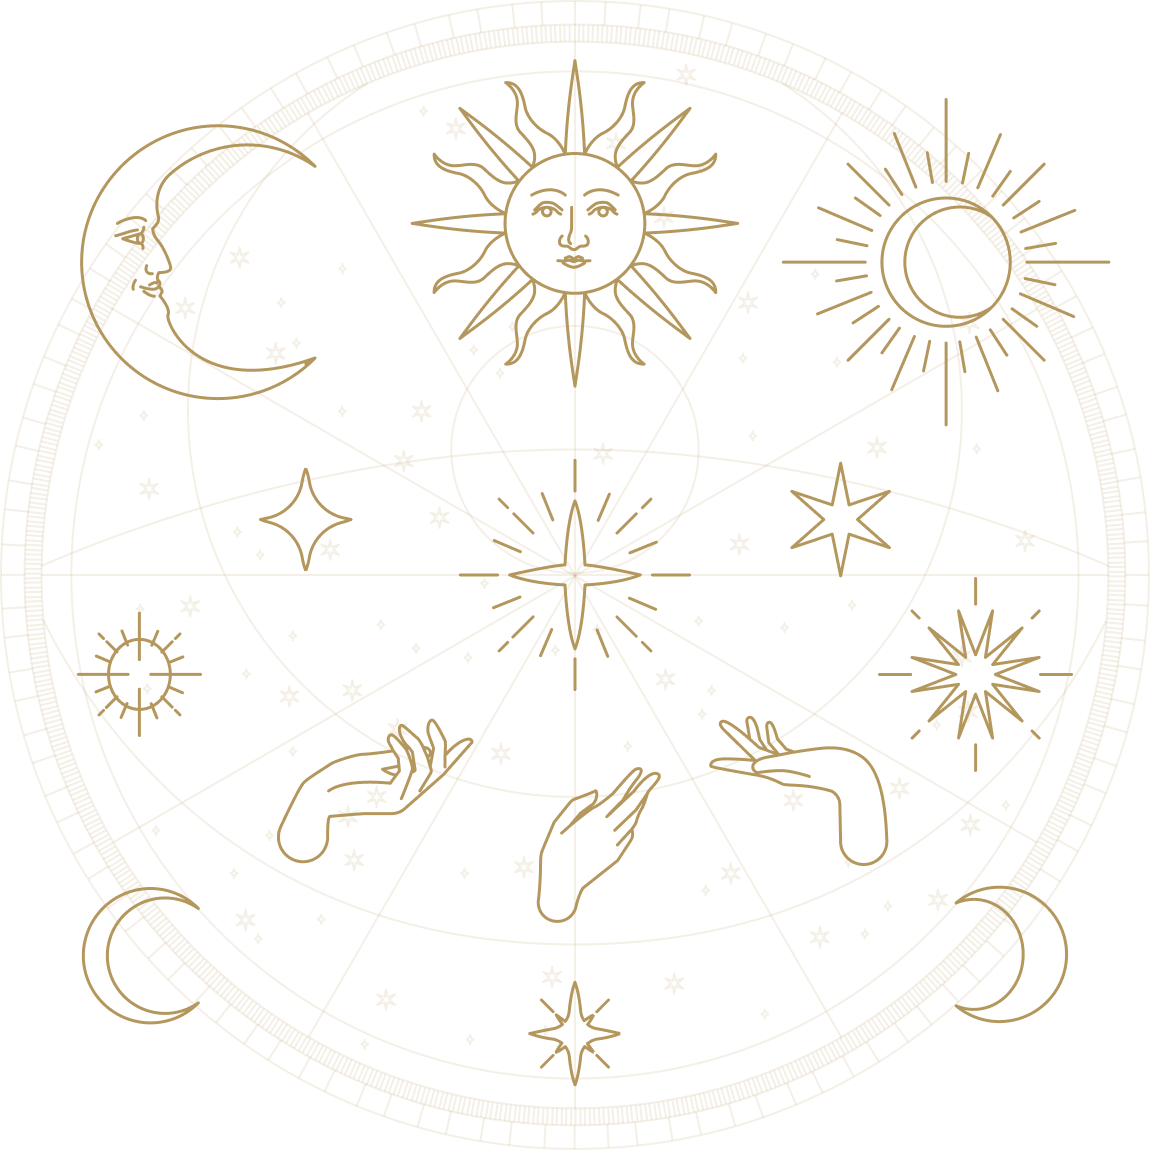
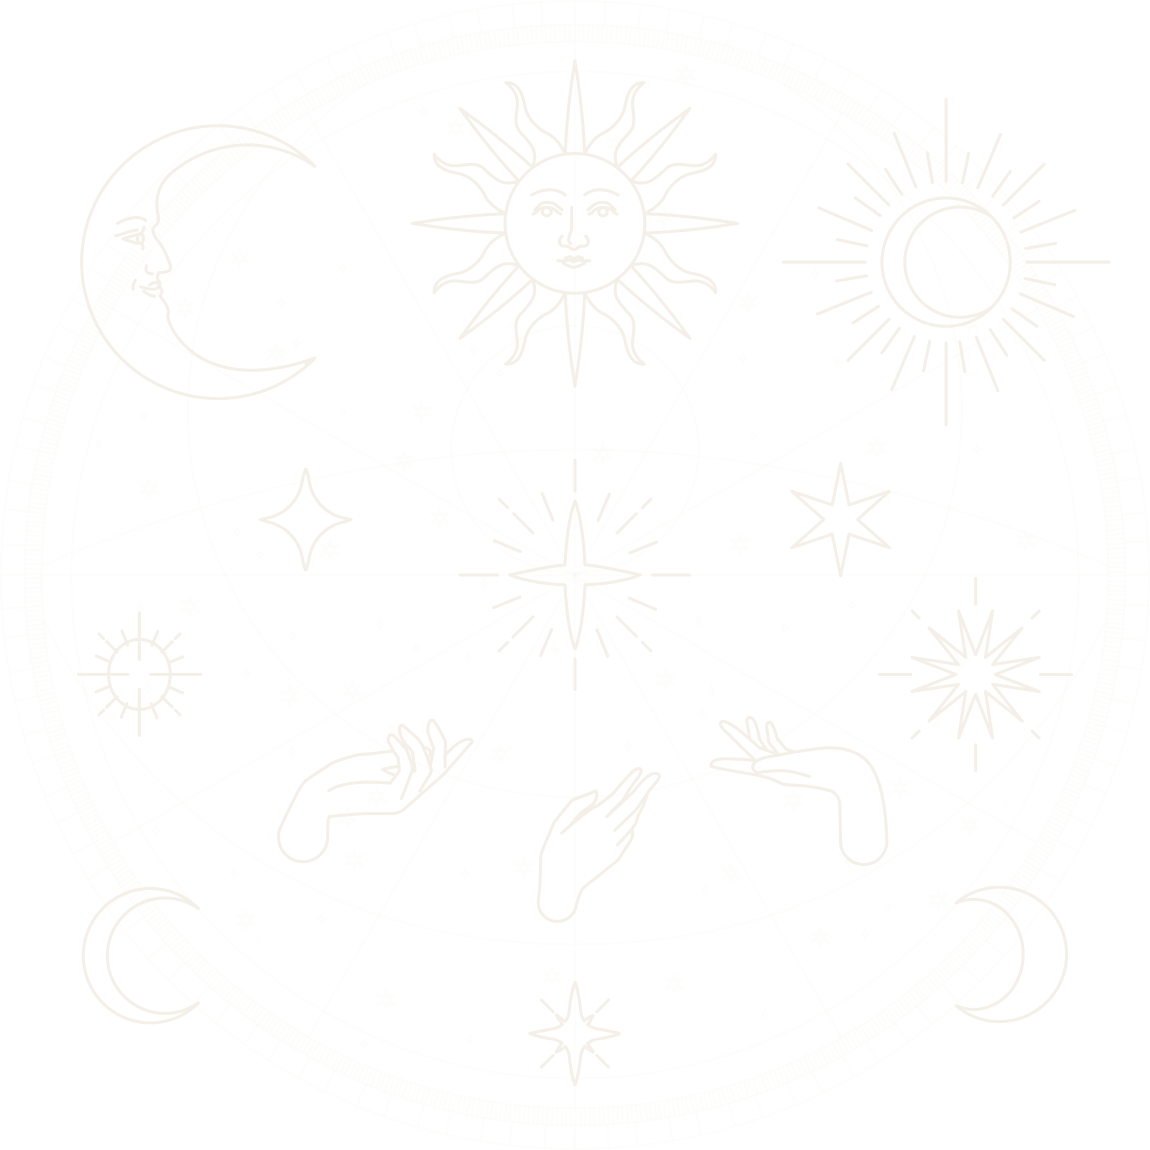
update1

diff --git a/index.html b/index.html
@@ -111,7 +111,154 @@
     </div>
 
 
-    <h1>Lorem ipsum, dolor sit amet consectetur adipisicing elit. Eum, cupiditate? Minima animi, blanditiis, alias, dolorum eligendi inventore tenetur quisquam aliquid expedita debitis sunt est dicta aperiam id. Quisquam consectetur, id voluptate pariatur quibusdam, facilis ad itaque perspiciatis voluptates rerum fugiat ab quis dolorum porro autem aliquam enim dolore consequuntur. Cumque corrupti hic odit, officiis distinctio cupiditate natus doloribus voluptatem, odio corporis molestiae dignissimos? Nobis, neque repellat quos iste obcaecati esse magnam assumenda odit vitae harum doloremque unde officia libero nemo velit quaerat? Porro unde nesciunt, repudiandae, non quasi alias dignissimos, praesentium totam hic fuga ratione. Error, minus exercitationem voluptatum et deserunt nesciunt corrupti, veritatis ea pariatur, alias rerum placeat nihil suscipit culpa qui ut. Ducimus nobis dolorem sunt, laborum, quae culpa eos incidunt animi exercitationem aperiam ipsam placeat adipisci reiciendis quisquam accusamus porro sint repudiandae natus obcaecati soluta sit corrupti totam? Sunt omnis, nostrum dolore adipisci quam error assumenda enim voluptatum provident similique aliquid molestiae quaerat dicta in laboriosam eos quae odit ab. Sed quasi enim modi, nulla eius ipsam voluptatem magni ipsa, molestias atque odit molestiae praesentium! Magnam non dignissimos ut fugiat? Omnis, hic illo. In aspernatur eius molestias earum, sequi autem nesciunt blanditiis libero, cumque sit alias quam.</h1>
+    <!-- Main Section -->
+     <section>
+        <div id="home_first_section">
+            <div class="container">
+                <div class="row align-items-center">
+                    <div class="col-lg-7 col-md-6">
+                        <h1>Ajmeri Gems House for Genuine Gemstone</h1>
+                        <p>Ajmeri Gems House (আজমেরি জেমস হাউস) is a trusted name for sourcing natural, rare, and spiritually aligned gemstones across Bangladesh. 
+                        This platform is designed for those who are looking for genuine astrological gemstones carefully matched with your birth chart (জন্মছক) zodiac sign (রাশিচক্র) and inner energy.</p>
+                        <h4>“পাথর শুধু অলংকার নয়, এটা আপনার ভাগ্যকে বদলে দিতে পারে।”</h4>
+                        <p>With over 30 years of experience in astrological solutions, Ajmeri Gems House stands out as one of the best in Bangladesh to offer a 100% authenticity guarantee</p>
+                        <h4>“আমরা মিথ্যা আশ্বাস নয়, প্রমাণসহ পাথর দিই।”</h4>
+                        
+                        <div class="mt-5">
+                            <a href="./appointment.html" class="btn btn-lg">Get an Appointment</a>
+                        </div>
+                    </div>
+                    <div class="col-lg-5 col-md-6">
+                        <div id="hero_img">
+                            <img src="./public/img/weblogo.png.webp" alt="">
+                        </div>
+                    </div>
+                </div>
+            </div>
+        </div>
+     </section>
+     <section>
+        <div id="home_second_section">
+            <div class="container">
+                <div class="text-center">
+                    <h2>Greetings To Ajmeri Gems House</h2>
+                </div>
+                <div class="row align-items-center">
+                    <div class="col-lg-6 col-md-6">
+                        <div id="home_second_img">
+                            <img src="./public/img/hero.png" alt="">
+                        </div>
+                    </div>
+                    <div class="col-lg-6 col-md-6">
+                        <h3>Astrologer Liton Dewan Chishti</h3>
+                        <p>Hand lines say a lot about a person. Everything from habits to personality traits can be understood by looking at this line. Basically, there are four lines in the hand which are mainly the lines of lifeline, heart path, title, and fate line. Many events are hidden within these lines. Some of us have broken lines, some have deep and straight lines. There are 12 signs of the horoscope, each taking up 30 degrees in one’s birth chart to form a full 360-degree circle. In astrology, each planet is determined by a specific gemstone. A person’s horoscope and hand lines are examined carefully to offer him/her a stone to wear. An astrologer does this examination with careful observation. Discover the ultimate gemstone shopping experience at the best gemstone shopping store in Bangladesh.</p>
+                        
+                        <div class="mt-5">
+                            <a href="./about-us.html" class="btn btn-lg">Read More</a>
+                        </div>
+                    </div>
+                </div>
+            </div>
+        </div>
+     </section>
+     <section>
+        <div id="home_offer">
+            <div class="container">
+                <div id="home_offer_image">
+                    <img src="./public/img/Best-Gemstone-Shopping-Store-In-Bangladesh.jpg.webp" alt="">
+                </div>
+
+                <div class="text-center">
+                    <h3><span>30 years</span> Experience Know Your Horoscope Today</h3>
+                    <p>Liton Dewan Chishti is one of the most famous astrologers in Bangladesh who has 30 years of experience in offering the best astrological solution. He has been guiding people in various directions about a life journey, heart path, title, and fate line by practicing the knowledge of astrology. In a very short period, he has gained a good reputation inside and outside the country with his skill and knowledge. He has received prestigious awards and certificates of appreciation from various newspapers and media. The guidance of astrologer Liton Dewan Chishti makes Ajmeri Gems House number one. There is a lifetime 100% money-back guarantee if someone can prove that the best gemstone shopping store in Bangladesh in this store are fake. It supplies the stones with confidence due to their authenticity.</p>
+                </div>
+            </div>  
+        </div>
+     </section>
+     <section>
+        <div id="home_third_section">
+            <div class="container">
+                <div class="row align-items-center">
+                    <div class="col-lg-6">
+                        <h3>Ajmeri Gems House</h3>
+                        <img src="./public/img/about3.webp" alt="">
+                    </div>
+                    <div class="col-lg-6">
+                        <p>The largest collection of best gemstone shopping store in Bangladesh is found in Ajmeri Gems House. While buying the original gemstone from here you don’t have to think about whether the stone is real or fake. There is a guarantee of providing 100% authentic products in this store.We want to be a brand loved by its respected clients. The leader of this organization is the renowned astrologer Liton Dewan Chisti.The journey of this store began in 1992. Since the time it started, it has been offering exceptional gemstones with excellent customer service. It started its service directly to the customer. We work hard to smoothen the purchasing process, empower the customers, encourage them, and lastly help them to buy their products while making sure that the customers remember their service forever. </p>
+
+                        <div class="mt-5">
+                            <a href="./shop.html" class="btn btn-lg">Our Products</a>
+                        </div>
+                    </div>
+                </div>
+            </div>
+        </div>
+     </section>
+     <section>
+        <div id="home_products">
+
+        </div>
+     </section>
+     <section>
+        <div id="home_forth_section">
+            <div class="container">
+                <div class="text-center">
+                    <h3>Select Your Favorite Gemstone</h3>
+                    <img src="./public/img/Ajmeri-Gems-House-1024x133.png.webp" alt="">
+                </div>
+                <div class="row mt-5">
+                    <div class="col-lg-3 col-md-6">
+                        <ul>
+                            <li><a href=""><i class="fa-solid fa-gem"></i> Amethyst Stone (পদ্মনীলা পাথর)</a></li>
+                            <li><a href=""><i class="fa-solid fa-gem"></i> Ruby Stone ( রুবি পাথর)</a></li>
+                            <li><a href=""><i class="fa-solid fa-gem"></i> Gems Stone Shiloni Moon (শিলোনী মুন ষ্টোন)</a></li>
+                            <li><a href=""><i class="fa-solid fa-gem"></i> Red Coral Stone (রক্তপ্রবাল পাথর)</a></li>
+                            <li><a href=""><i class="fa-solid fa-gem"></i> Blue Nila Stone (ব্যাংকক ইন্দ্রনীলা পাথর)</a></li>
+                            <li><a href=""><i class="fa-solid fa-gem"></i> Sulemani Akik Stone (সোলেমানি আকিকপাথর)</a></li>
+                        </ul>
+                    </div>
+                    <div class="col-lg-3 col-md-6">
+                        <ul>
+                            <li><a href=""><i class="fa-solid fa-gem"></i> Pearl Stone (গ্যারা মুক্তা পাথর)</a></li>
+                            <li><a href=""><i class="fa-solid fa-gem"></i> Akik Stone (আকিক ইয়ামিনী লাল পাথর)</a></li>
+                            <li><a href=""><i class="fa-solid fa-gem"></i> Akik Stone ( আকিক কালো পাথর)</a></li>
+                            <li><a href=""><i class="fa-solid fa-gem"></i> Zircon Stone (জারকন পাথর)</a></li>
+                            <li><a href=""><i class="fa-solid fa-gem"></i> Cats Eye Stone (শিলোনাী ক্যাটসআই পাথর)</a></li>
+                            <li><a href=""><i class="fa-solid fa-gem"></i> Cats Eye Stone (উড়িষ্যা ক্যাটসআই পাথর)</a></li>
+                        </ul>
+                    </div>
+                    <div class="col-lg-3 col-md-6">
+                        <ul>
+                            <li><a href=""><i class="fa-solid fa-gem"></i> Gemstone Citrine (সিট্রিন রত্নপাথর)</a></li>
+                            <li><a href=""><i class="fa-solid fa-gem"></i> Peridot Gemstone (পেরিডট রত্নপাথর)</a></li>
+                            <li><a href=""><i class="fa-solid fa-gem"></i> Alexandrite Gemstone (আলেকজান্দ্রিত)</a></li>
+                            <li><a href=""><i class="fa-solid fa-gem"></i> Gemstone Aquamarine (অ্যাকোয়ামারিন)</a></li>
+                            <li><a href=""><i class="fa-solid fa-gem"></i> Star Ruby Stone (আনকাট রুবি স্টোন)</a></li>
+                            <li><a href=""><i class="fa-solid fa-gem"></i> Tiger Eye Stone (টাইগার পাথর)</a></li>
+                        </ul>
+                    </div>
+                    <div class="col-lg-3 col-md-6">
+                        <ul>
+                            <li><a href=""><i class="fa-solid fa-gem"></i> Blue Sapphire (শ্রীলঙ্কান ইন্দ্রনীলা পাথর)</a></li>
+                            <li><a href=""><i class="fa-solid fa-gem"></i> Emerald Stone (ব্রাজিল পান্না পাথর)</a></li>
+                            <li><a href=""><i class="fa-solid fa-gem"></i> Turquoise Gemstone (ফিরোজা পাথর)</a></li>
+                            <li><a href=""><i class="fa-solid fa-gem"></i> Golden Topaz (টোপাজ রত্নপাথর)</a></li>
+                            <li><a href=""><i class="fa-solid fa-gem"></i> Opal Stone (ওপাল পাথর)</a></li>
+                            <li><a href=""><i class="fa-solid fa-gem"></i> Yellow Sapphire Topaz (পোখরাজ পাথর)</a></li>
+                            <li><a href=""><i class="fa-solid fa-gem"></i> Garnet Gemstone (গোমেদ পাথর)</a></li>
+                        </ul>
+                    </div>
+                </div>
+            </div>
+        </div>
+     </section>
+     <section>
+        <div id="home_fifth_section"></div>
+     </section>
+     <section>
+        <div id="home_sixth_section"></div>
+     </section>
+    <!-- Main Section -->
 
 
 

diff --git a/public/css/style.css b/public/css/style.css
@@ -21,10 +21,12 @@ ul {
 }
 a {
     text-decoration: none;
+    font-size: 18px;
 }
 
 p {
 	font-weight: 400;
+    font-size: 18px;
 }
 
 .form-control:focus {
@@ -309,6 +311,131 @@ p {
 #breadcrumb p a {
     color: var(--first-color);
 }
+
+
+/* Home Page */
+#home_first_section {
+    padding: 50px 0;
+    background: linear-gradient(rgba(255, 255, 242, 0.5), rgba(255, 255, 242, 0.5)),url("../img/bg-sd-tarot-pd.png");
+    background-position: center;
+    background-repeat: no-repeat;
+    background-size: contain;
+}
+#home_first_section h1 {
+    color: var(--second-color);
+    margin-bottom: 20px;
+}
+#home_first_section img {
+    width: 100%;
+}
+#home_first_section .btn {
+    background-color: var(--first-color);
+    color: var(--white-color);
+}
+#home_first_section .btn:hover {
+    background-color: var(--second-color);
+    color: var(--white-color);
+}
+
+#home_second_section {
+    padding: 50px 0;
+    background: linear-gradient(rgba(255, 255, 242, 0.5), rgba(255, 255, 242, 0.5)),url("../img/Graphic-tarot.png");
+    background-position: center;
+    background-repeat: no-repeat;
+    background-size: cover;
+}
+#home_second_section h2 {
+    color: var(--second-color);
+    margin-bottom: 20px;
+    font-size: 60px;
+    margin-bottom: 40px;
+}
+#home_second_section h3 {
+    color: var(--first-color);
+    margin-bottom: 20px;
+    font-size: 50px;
+}
+#home_second_section img {
+    width: 100%;
+    animation: roundAnimation linear 10s infinite;
+}
+#home_second_section .btn {
+    background-color: var(--first-color);
+    color: var(--white-color);
+}
+#home_second_section .btn:hover {
+    background-color: var(--second-color);
+    color: var(--white-color);
+}
+#home_offer {
+    padding: 50px 0;
+}
+#home_offer h3 {
+    font-size: 40px;
+    margin-top: 30px;
+}
+#home_offer h3 span {
+    font-size: 60px;
+    font-weight: 600;
+    color: var(--second-color);
+}
+#home_offer_image img {
+    width: 100%;
+}
+
+#home_third_section {
+    padding: 50px 0;
+    background: linear-gradient(rgba(255, 255, 242, 0.5), rgba(255, 255, 242, 0.5)),url("../img/bg-sd-tarot-pd.png");
+    background-position: center;
+    background-repeat: no-repeat;
+    background-size: contain;
+}
+#home_third_section h3 {
+    color: var(--second-color);
+    font-size: 40px;
+}
+#home_third_section img {
+    width: 100%;
+    border-radius: 10px;
+}
+#home_third_section .btn {
+    background-color: var(--first-color);
+    color: var(--white-color);
+}
+#home_third_section .btn:hover {
+    background-color: var(--second-color);
+    color: var(--white-color);
+}
+
+#home_forth_section {
+    padding: 50px 0;
+}
+#home_forth_section h3 {
+    color: var(--second-color);
+    font-size: 40px;
+    text-decoration: underline;
+}
+#home_forth_section img {
+    width: 100%;
+    margin-top: 20px;
+}
+#home_forth_section ul li {
+    padding: 10px 0;
+}
+#home_forth_section ul li a {
+    color: var(--second-color);
+}
+
+@keyframes roundAnimation {
+    0% {
+        transform: rotate(0deg);
+    }
+    100% {
+        transform: rotate(360deg);
+    }
+}
+
+/* Home Page */
 
 
 /* Liton Page */
